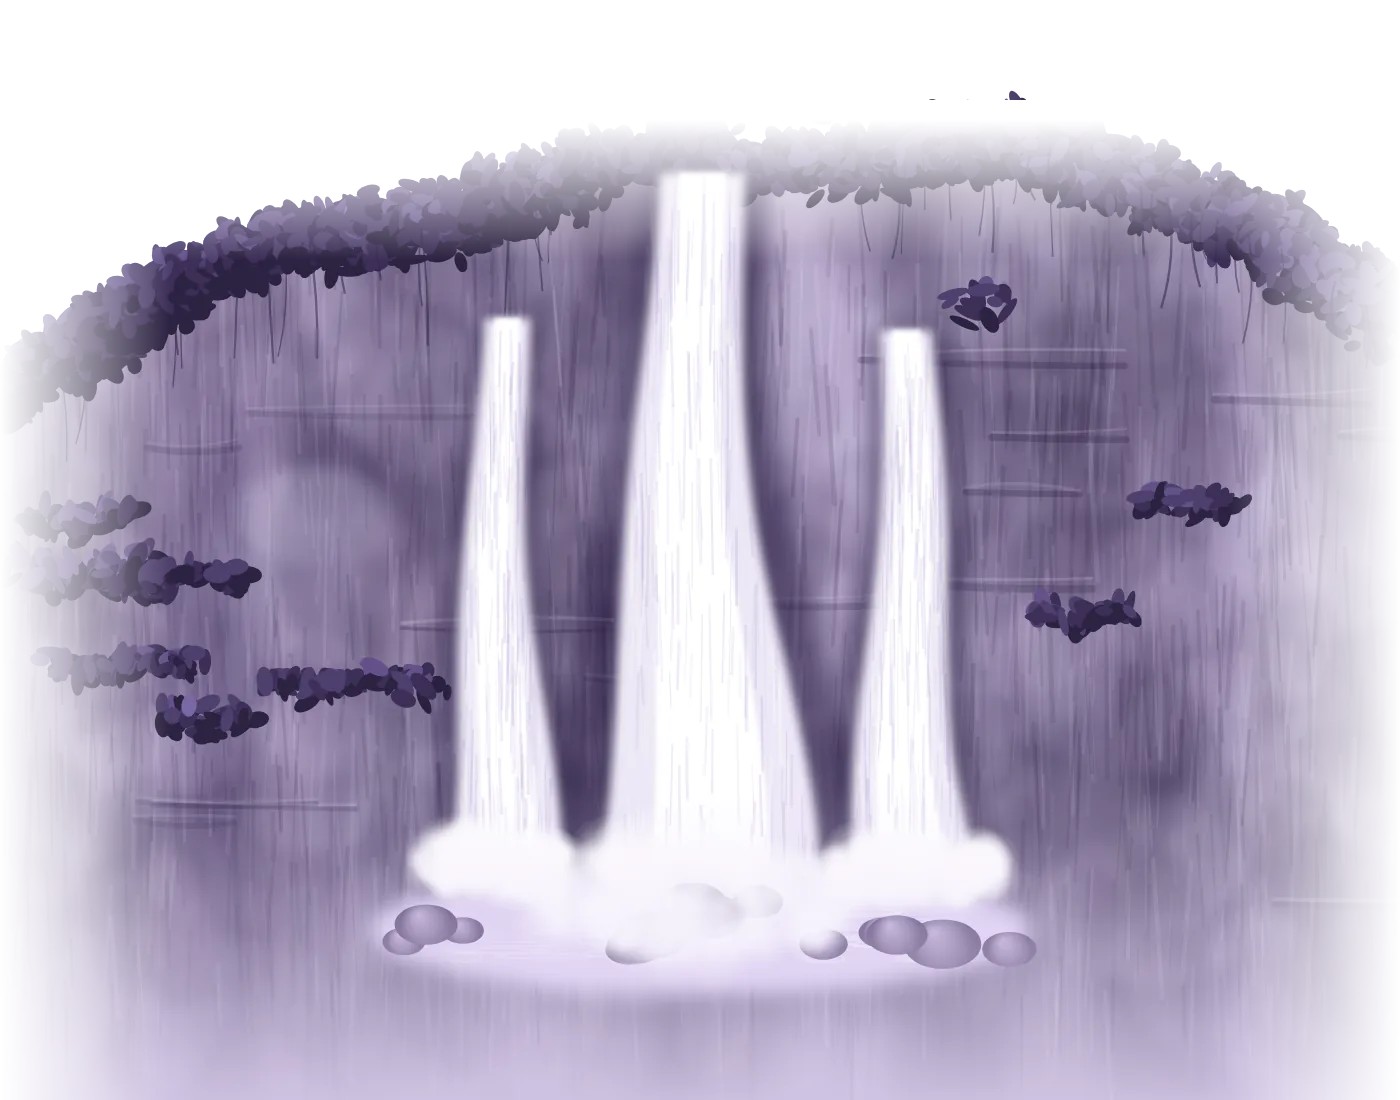
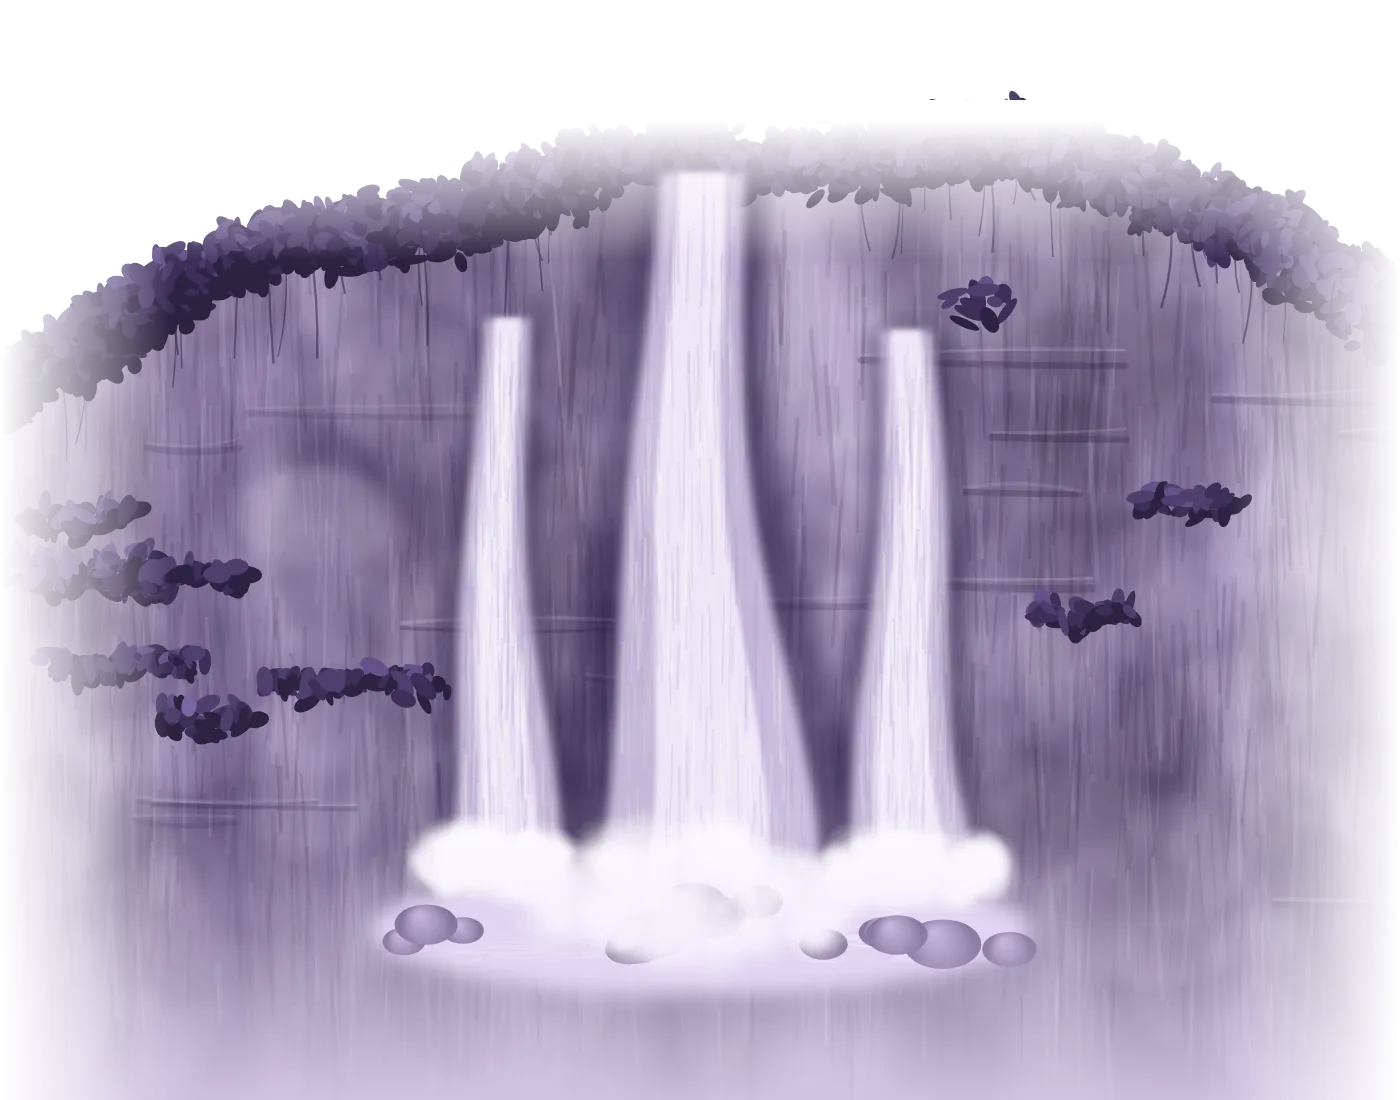
7

Changed region(s): [[0.43, 0.1855, 0.7064, 0.7727], [0.3071, 0.2782, 0.3993, 0.7727]]

diff --git a/public/ungu.js b/public/ungu.js
@@ -11,7 +11,7 @@
   const f1 = (n) => +(+n).toFixed(1);
   const R = (i, k) => (Math.sin((i + 1) * 9301 + k * 49297) + 1) / 2;
   const P = (x, y, w) => `left:${(x / BW * 100).toFixed(3)}%;top:${(y / BH * 100).toFixed(3)}%;width:${(w / BW * 100).toFixed(3)}%`;
-  const S0 = { sky: 1, clouds: 1, hz: 1.02, cliff: 1.04, mistb: 1.05, field: 1.06, trees: 1.08, house: 1.1, glow: 1.1, penjor: 1.12, palms: 1.15, gun: 1.15, flw: 1.18, bank: 1.2, jas: 1.2, pots: 1.25, canopy: 1.2, petals: 1 }; // skala awal per lapisan: kamera mundur halus (semua lapisan sudah tampil sejak awal)
+  const S0 = { sky: 1.04, moon: 1.08, clouds: 1.1, hz: 1.18, cliff: 1.3, mistb: 1.4, field: 1.5, trees: 1.75, house: 1.6, glow: 1.6, penjor: 1.9, palms: 2.2, gun: 2.2, flw: 2.5, bank: 2.8, jas: 2.7, pots: 3.2, canopy: 2.4, rays: 1.3, petals: 1 }; // skala awal per lapisan: kamera terbang masuk, makin dekat makin cepat (parallax 3D)
   const L = (cls, inner, z) => `<div class="pg-l ${cls} on" data-z="${z || 0}" style="--s0:${S0[cls] || 1}">${inner}</div>`;
   const im = (n, cls, x, y, w, st, fl) => `<div class="pg-o ${cls}" style="${P(x, y, w)}${st || ''}"><img src="${UG}${n}.webp" alt="" decoding="async"${fl ? ' style="transform:scaleX(-1)"' : ''}></div>`;
 
@@ -55,6 +55,7 @@
     return `<div class="pg-w ug ring${cover ? ' cvr' : ''}">
       ${L('sky', '<i class="ug-sky"></i><i class="ug-sun"></i>' + Array.from({ length: 5 }, (_, i) => `<i class="ug-cl c${i}"></i>`).join(''), -1)}
       ${L('clouds', cd('cl1', 'a', -70, 20, 430, .9) + cd('cl2', 'b', 400, 95, 380, .8) + cd('cl3', 'c', 30, 215, 330, .7) + cd('cl1', 'd', 440, 250, 340, .6, 1), -0.9)}
+      ${L('moon', `<i class="ug-moonhalo"></i><div class="pg-o mn" style="${P(292, 96, 200)}"><img src="${UG}moon.webp" alt="" decoding="async"></div>`, -0.8)}
       ${L('hz', im('hz', 'hz a', -110, 700, 1000, ';opacity:.7') + im('hz', 'hz b', -200, 790, 900, ';opacity:.6', 1), -0.7)}
       ${L('cliff', `<div class="pg-o cf" style="${cliffBox}"><img src="${UG}cliff.webp" alt="" decoding="async"><i class="ug-wt a"></i><i class="ug-wt b"></i></div>`, -0.55)}
       ${L('mistb', mist('mb1', -120, 560, 840, 0, .7) + mist('mb2', 160, 640, 760, 1, 0.8) + mist('mb3', -60, 300, 620, 0, 0.35), -0.45)}
@@ -70,10 +71,12 @@
       ${L('jas', im('jasL', 'js l', -56, 850, 330) + im('jasR', 'js r', 530, 830, 320), 0.4)}
       ${L('pots', im('potB', 'pt a', -120, 985, 420) + im('potP', 'pt b', 180, 1000, 400) + im('potB', 'pt c', 440, 985, 400) + im('potP2', 'pt d', 610, 1005, 360), 0.5)}
       ${L('canopy', im('ctopL', 'ucp l', -14, -26, 290) + im('ctopL', 'ucp r', 508, -26, 290, '', 1), 0.45)}
+      ${L('rays', '<i class="ug-ray a"></i><i class="ug-ray b"></i><i class="ug-ray c"></i><i class="ug-fg"></i>', 0.05)}
       <div class="pg-l petals on" data-z="0.3">${petals}</div>
       <div class="pg-l dust on" data-z="0.3">${dust}</div>
       <div class="pg-l birds on" data-z="-0.3"></div>
       <div class="pg-l fly on" data-z="0.5"></div>
+      <i class="ug-vig"></i>
     </div>`;
   }
 
@@ -99,10 +102,11 @@
     const fine = matchMedia('(pointer:fine)').matches, ls = $$('.pg-l', W).map((el) => ({ el, z: +el.dataset.z })).filter((l) => l.z);
     let tx = 0, ty = 0, px = 0, py = 0; const t0 = performance.now();
     if (fine) addEventListener('pointermove', (e) => { tx = (e.clientX / innerWidth - 0.5) * 2; ty = (e.clientY / innerHeight - 0.5) * 2; }, { passive: true });
+    if (!fine) addEventListener('deviceorientation', (e) => { if (e.gamma == null) return; tx = Math.max(-1, Math.min(1, e.gamma / 22)); ty = Math.max(-1, Math.min(1, ((e.beta || 50) - 50) / 22)); }, { passive: true });
     const tick = (now) => { if (!W.isConnected) return; requestAnimationFrame(tick); if (document.hidden || W.closest('.cin-off')) return;
       const t = (now - t0) / 1000; px += (tx - px) * 0.04; py += (ty - py) * 0.04;
-      const ix = Math.sin(t * 0.22) * 0.9 + px, iy = Math.cos(t * 0.17) * 0.5 + py;
-      for (const l of ls) l.el.style.translate = `${(-ix * l.z * 1.1).toFixed(2)}cqw ${(-iy * l.z * 0.8).toFixed(2)}cqw`; };
+      const ix = Math.sin(t * 0.22) * 0.9 + px, iy = Math.cos(t * 0.17) * 0.5 + py, K = 3.4;
+      for (const l of ls) l.el.style.translate = `${(-ix * l.z * K).toFixed(2)}cqw ${(-iy * l.z * K * 0.7).toFixed(2)}cqw`; };
     requestAnimationFrame(tick);
     // jaring pengaman: bila film tidak pernah dijalankan, dunia tetap ditampilkan utuh
     const iv = setInterval(() => { if (!W.isConnected) return clearInterval(iv); if (!document.body.classList.contains('locked')) clearInterval(iv); }, 600);
@@ -112,7 +116,8 @@
   // Semua lapisan sudah tampil sejak awal (tidak ada yang muncul tiba-tiba). Kamera hanya mundur halus: lapisan dekat bergerak sedikit lebih jauh (parallax).
   function film(stage, later) {
     const W = $('.pg-w', stage); if (!W) return;
-    later(() => $$('.pg-l', W).forEach((l) => { const s0 = parseFloat(getComputedStyle(l).getPropertyValue('--s0')) || 1; if (s0 !== 1) l.animate([{ scale: s0 }, { scale: 1 }], { duration: 7200, easing: 'cubic-bezier(.25,.6,.25,1)', fill: 'both' }); }), 0);
+    later(() => $$('.pg-l', W).forEach((l) => { const s0 = parseFloat(getComputedStyle(l).getPropertyValue('--s0')) || 1; if (s0 !== 1) l.animate([{ scale: s0 }, { scale: 1 }], { duration: 6800, easing: 'cubic-bezier(.3,.05,.2,1)', fill: 'both' }); }), 0);
+    later(() => { const m = $('.pg-l.moon .mn', W), h = $('.ug-moonhalo', W); if (m) m.animate([{ transform: 'translateY(34cqw)', opacity: 0 }, { opacity: 1, offset: 0.35 }, { transform: 'none', opacity: 1 }], { duration: 6200, easing: 'cubic-bezier(.25,.5,.25,1)', fill: 'both' }); if (h) h.animate([{ opacity: 0, scale: .6 }, { opacity: 1, scale: 1 }], { duration: 6500, easing: 'ease-out', fill: 'both' }); }, 300);
     later(() => PG.flyers && PG.flyers(W, 'bf_pink1', 2), 2200);
     later(() => birds(W), 2600);
     later(() => PG.flyers && PG.flyers(W, 'bf_blue2', 2), 4200);

diff --git a/public/ungu.css b/public/ungu.css
@@ -197,7 +197,7 @@ body.t-airterjun{--primary:#5a2a85;--accent:#6e3d99;--rose:#8a4fb3;--gold:#b79ad
 @keyframes ugSun{from{opacity:.7;scale:1}to{opacity:1;scale:1.06}}
 /* tebing & air terjun: tekstur aliran bergulir di dalam bentuk air */
 .pg-w.ug .pg-o.cf>img{display:block;width:100%;height:auto}
-.ug-wt{position:absolute;inset:0;pointer-events:none;background:url(/assets/t/ungu/streak.webp) 0 0/14cqw auto repeat;-webkit-mask:url(/assets/t/ungu/fallmask.webp) center/100% 100% no-repeat;mask:url(/assets/t/ungu/fallmask.webp) center/100% 100% no-repeat;opacity:.75;animation:ugFlow 1.5s linear infinite}
+.ug-wt{position:absolute;inset:0;pointer-events:none;background:url(/assets/t/ungu/streak.webp) 0 0/14cqw auto repeat;-webkit-mask:url(/assets/t/ungu/fallmask.webp) center/100% 100% no-repeat;mask:url(/assets/t/ungu/fallmask.webp) center/100% 100% no-repeat;opacity:.5;animation:ugFlow 1.5s linear infinite}
 .ug-wt.b{background-size:8cqw auto;opacity:.5;animation-duration:.95s}
 @keyframes ugFlow{to{background-position:0 28cqw}}
 .ug-wt.b{animation-name:ugFlowB}@keyframes ugFlowB{to{background-position:0 16cqw}}
@@ -216,4 +216,17 @@ body.t-airterjun{--primary:#5a2a85;--accent:#6e3d99;--rose:#8a4fb3;--gold:#b79ad
 @keyframes ugHg{from{opacity:.55}to{opacity:1}}
 @media (prefers-reduced-motion:reduce){.ug-wt,.pg-w.ug .pg-o.tree>img.cr,.ug-hg,.ug-sun{animation:none}}
 .pg-w.ug .pg-o.cf>img{filter:brightness(1.14) saturate(1.05)}
-.pg-w.ug.cvr .pg-l.cliff,.pg-w.ug.cvr .pg-l.trees,.pg-w.ug.cvr .pg-l.house,.pg-w.ug.cvr .pg-l.glow,.pg-w.ug.cvr .pg-l.penjor,.pg-w.ug.cvr .pg-l.palms,.pg-w.ug.cvr .pg-l.gun,.pg-w.ug.cvr .pg-l.flw,.pg-w.ug.cvr .pg-l.mistb{display:none}
+.pg-w.ug.cvr .pg-l.cliff,.pg-w.ug.cvr .pg-l.trees,.pg-w.ug.cvr .pg-l.house,.pg-w.ug.cvr .pg-l.glow,.pg-w.ug.cvr .pg-l.penjor,.pg-w.ug.cvr .pg-l.palms,.pg-w.ug.cvr .pg-l.gun,.pg-w.ug.cvr .pg-l.flw,.pg-w.ug.cvr .pg-l.mistb,.pg-w.ug.cvr .pg-l.moon,.pg-w.ug.cvr .pg-l.rays{display:none}
+
+/* ===== v58: kedalaman 3D — kamera terbang masuk, bulan terbit, sinar cahaya, vinyet ===== */
+@property --hole{syntax:'<percentage>';inherits:false;initial-value:0%}
+.pg-w.ug .pg-l{transform-origin:50% 60%}
+.ug-moonhalo{position:absolute;left:50%;top:5%;width:78%;aspect-ratio:1;translate:-50% 0;border-radius:50%;background:radial-gradient(circle,rgba(255,240,252,.8),rgba(240,215,250,.4) 34%,transparent 66%);mix-blend-mode:screen}
+.pg-w.ug .pg-o.mn>img{display:block;width:100%;height:auto;filter:drop-shadow(0 0 22px rgba(255,236,252,.75))}
+.ug-ray{position:absolute;top:-6%;width:15%;height:84%;background:linear-gradient(180deg,rgba(255,246,252,.55),rgba(255,236,250,0));transform-origin:50% 0;mix-blend-mode:screen;filter:blur(7px);animation:ugRay 9s ease-in-out infinite alternate}
+.ug-ray.a{left:14%;rotate:16deg}.ug-ray.b{left:44%;rotate:-6deg;width:10%;animation-delay:-3s;animation-duration:11s}.ug-ray.c{left:68%;rotate:-18deg;width:13%;animation-delay:-6s}
+@keyframes ugRay{from{opacity:.25;translate:-1.5cqw 0}to{opacity:.75;translate:1.5cqw 0}}
+.ug-fg{position:absolute;left:50%;top:58%;width:70%;aspect-ratio:1.5;translate:-50% -50%;border-radius:50%;background:radial-gradient(ellipse,rgba(255,246,255,.5),transparent 65%);mix-blend-mode:screen;animation:ugHg 5s ease-in-out infinite alternate}
+.ug-vig{position:absolute;inset:0;pointer-events:none;z-index:6;background:radial-gradient(ellipse at 50% 56%,transparent 52%,rgba(70,36,110,.38) 100%)}
+.spf-airterjun .spf-card.portal{-webkit-mask-image:radial-gradient(ellipse 80% 72% at 50% 52%,transparent calc(var(--hole) - 14%),#000 var(--hole));mask-image:radial-gradient(ellipse 80% 72% at 50% 52%,transparent calc(var(--hole) - 14%),#000 var(--hole))}
+@media (prefers-reduced-motion:reduce){.ug-ray,.ug-fg{animation:none}}

diff --git a/lib/index.template.html b/lib/index.template.html
@@ -13,15 +13,15 @@
 <meta name="theme-color" content="#AD2940">
 <link rel="preconnect" href="https://fonts.googleapis.com">
 <link rel="preconnect" href="https://fonts.gstatic.com" crossorigin>
-<link rel="stylesheet" href="/invitation.css?v=57">
-<link rel="stylesheet" href="/immersive.css?v=57">
-<link rel="stylesheet" href="/scrollfx.css?v=57">
-<link rel="stylesheet" href="/sampul.css?v=57">
-<link rel="stylesheet" href="/living.css?v=57">
-<link rel="stylesheet" href="/dayak.css?v=57">
-<link rel="stylesheet" href="/cinema.css?v=57">
-<link rel="stylesheet" href="/panggung.css?v=57">
-<link rel="stylesheet" href="/ungu.css?v=57">
+<link rel="stylesheet" href="/invitation.css?v=58">
+<link rel="stylesheet" href="/immersive.css?v=58">
+<link rel="stylesheet" href="/scrollfx.css?v=58">
+<link rel="stylesheet" href="/sampul.css?v=58">
+<link rel="stylesheet" href="/living.css?v=58">
+<link rel="stylesheet" href="/dayak.css?v=58">
+<link rel="stylesheet" href="/cinema.css?v=58">
+<link rel="stylesheet" href="/panggung.css?v=58">
+<link rel="stylesheet" href="/ungu.css?v=58">
 </head>
 <body class="locked">
 <div id="loader"><div class="ld"></div></div>
@@ -41,15 +41,15 @@
   <button class="lb-n" aria-label="Berikutnya">&#8250;</button>
 </div>
 <audio id="bgm" loop preload="none"></audio>
-<script src="/themes.js?v=57"></script>
-<script src="/dayak.js?v=57"></script>
-<script src="/sampul.js?v=57"></script>
-<script src="/cinema.js?v=57"></script>
-<script src="/panggung.js?v=57"></script>
-<script src="/ungu.js?v=57"></script>
-<script src="/invitation.js?v=57"></script>
-<script src="/immersive.js?v=57" defer></script>
-<script src="/scrollfx.js?v=57" defer></script>
-<script src="/living.js?v=57" defer></script>
+<script src="/themes.js?v=58"></script>
+<script src="/dayak.js?v=58"></script>
+<script src="/sampul.js?v=58"></script>
+<script src="/cinema.js?v=58"></script>
+<script src="/panggung.js?v=58"></script>
+<script src="/ungu.js?v=58"></script>
+<script src="/invitation.js?v=58"></script>
+<script src="/immersive.js?v=58" defer></script>
+<script src="/scrollfx.js?v=58" defer></script>
+<script src="/living.js?v=58" defer></script>
 </body>
 </html>

diff --git a/public/sampul.js b/public/sampul.js
@@ -430,10 +430,12 @@
     if (FULL[k]) { // kartu naik ke atas, adegan di bawahnya terlihat (seperti video)
       const card = $('.spf-card', cv);
       sfx(k, 'swing');
-      if (k === 'airterjun') { // adegan di bawah sama persis dengan sampul: kartu memudar saja, tanpa gerakan yang membuat rumah 'hilang & muncul lagi'
-        an(card, [{ opacity: 1 }, { opacity: 0 }], { duration: 1100, delay: 150, easing: 'ease-in-out' });
-        hand(1300, 200);
-        return { camDelay: 700 * D };
+      if (k === 'airterjun') { // terbang menembus gerbang: lubang di tengah kartu membesar, bingkai bunga melesat ke tepi layar, adegan di belakang mendekat (parallax)
+        $$('.spf-in', cv).forEach((e) => an(e, [{ opacity: 1 }, { opacity: 0, transform: 'scale(1.08)' }], { duration: 520, easing: 'ease-out', fill: 'forwards' }));
+        card.classList.add('portal'); card.style.transformOrigin = '50% 52%';
+        an(card, [{ transform: 'scale(1)', '--hole': '0%' }, { transform: 'scale(1.7)', '--hole': '70%', offset: 0.55 }, { transform: 'scale(3)', '--hole': '135%', opacity: 1, offset: 0.9 }, { transform: 'scale(3.4)', '--hole': '135%', opacity: 0 }], { duration: 2300, delay: 150, easing: 'cubic-bezier(.55,.05,.3,1)', fill: 'forwards' });
+        hand(2500, 250);
+        return { camDelay: 250 * D };
       }
       an(card, [{ transform: 'translateY(0)' }, { transform: 'translateY(-104%)' }], { duration: 1500, delay: 150, easing: 'cubic-bezier(.6,0,.25,1)' });
       hand(1650, 200);

diff --git a/tools/ungu-cliff.html b/tools/ungu-cliff.html
@@ -71,8 +71,8 @@ window.makeCliff = function () {
   falls.forEach((f) => { x.save(); x.filter = 'blur(10px)'; body(f, x, 1.5); x.fillStyle = 'rgba(40,28,66,.45)'; x.fill(); x.restore(); });
   const wcan = mk(), wx = wcan.getContext('2d');
   falls.forEach((f) => { // badan air: putih lilac dengan tepi lembut
-    wx.save(); wx.filter = 'blur(5px)'; body(f, wx, 1.0); wx.fillStyle = 'rgba(244,238,252,.96)'; wx.fill(); wx.restore();
-    wx.save(); wx.filter = 'blur(2px)'; body(f, wx, 0.55); wx.fillStyle = 'rgba(255,255,255,1)'; wx.fill(); wx.restore();
+    wx.save(); wx.filter = 'blur(5px)'; body(f, wx, 1.0); wx.fillStyle = 'rgba(226,214,246,.8)'; wx.fill(); wx.restore();
+    wx.save(); wx.filter = 'blur(2px)'; body(f, wx, 0.55); wx.fillStyle = 'rgba(248,242,255,.78)'; wx.fill(); wx.restore();
   });
   // alur di dalam air
   wx.globalCompositeOperation = 'source-atop';
